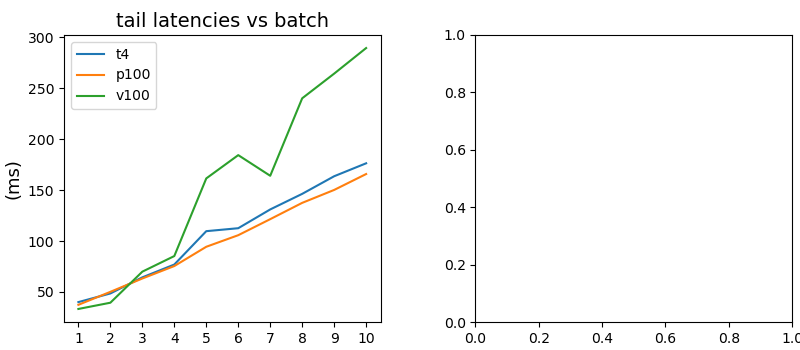
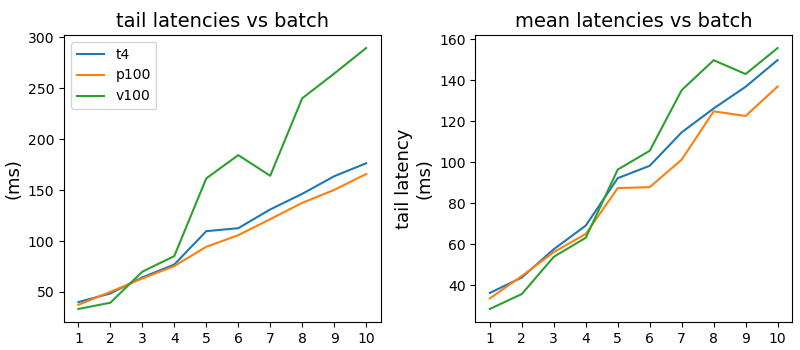
updates

diff --git a/experiments/lat_vs_batch.py b/experiments/lat_vs_batch.py
@@ -18,13 +18,16 @@ batches = list(range(1, 11))
 # first plot throughput across different gpus
 for i, gpu in enumerate(gpus):
     tail_list = []
+    mean_list = []
     for batch_size in batches:
         path = f'logs/time_records/{gpu}_{batch_size}.json'
         with open(path) as f:
             lats = json.load(f)
         lats = lats[5:]
         tail_list.append(np.percentile(lats,95))
+        mean_list.append(np.mean(lats))
     axs[0].plot(batches, tail_list, label=gpu)
+    axs[1].plot(batches, mean_list, label=gpu)
 
 axs[0].set_xticks(batches)
 axs[0].legend()
@@ -32,31 +35,10 @@ axs[0].set_title('tail latencies vs batch', fontsize=14)
 axs[0].set_ylabel('tail latency\n(ms)', fontsize=13)
 axs[0].set_xlabel('batch size', fontsize=13)
 
-#axs[1].bar(x, qps_list, width=width) #TODO
-#axs[1].set_xticks(x)
-#axs[1].set_xticklabels(GPUs)
-#axs[1].set_title('inference throughput', fontsize=14)
-#axs[1].set_ylabel('throughput\n(query-per-second)', fontsize=13)
-#
-column = ' power.draw [W]'
-for i, gpu in enumerate(gpus):
-    energy_list = []
-    path = f'logs/{gpu}.csv'
-    df = pandas.read_csv(path)
-    pwr = np.mean(df[column]) #- idle_pwr[i] #watt
-
-    for batch_size in batches:
-    time = lat_list[i]/1000 #second
-    energy_list.append(pwr*time)
-#
-#axs[2].bar(x, energy_list, width)
-#axs[2].set_xticks(x)
-#axs[2].set_xticklabels(GPUs)
-#axs[2].set_title('inference energy', fontsize=14)
-#axs[2].set_ylabel('Energy (Joule)\nper query', fontsize=13)
-#
-#for ax in axs:
-#    ax.grid(which='major', axis='y', ls='dotted')
+axs[1].set_xticks(batches)
+axs[1].set_title('mean latencies vs batch', fontsize=14)
+axs[1].set_ylabel('tail latency\n(ms)', fontsize=13)
+axs[1].set_xlabel('batch size', fontsize=13)
 
 plt.savefig(f'plots/lat_vs_batch.png')
 

diff --git a/experiments/process.py b/experiments/process.py
@@ -8,8 +8,8 @@ import pandas
 import sys
 
 batch_size = sys.argv[1]
-gpus = ['cpu', 't4', 'p100', 'v100'] # cpu node is c0191
-GPUs = ['CPU', 'T4', 'P100', 'V100']
+gpus = ['t4', 'p100', 'v100'] # cpu node is c0191
+GPUs = ['T4', 'P100', 'V100']
 #idle_pwr = [27, 60, 15]
 
 fig, axs = plt.subplots(1, 3, figsize=(12,3.5), gridspec_kw={'hspace': 0, 'wspace': 0.3, 'top': 0.9, 'left':0.08, 'right':0.99, 'bottom':0.08})
@@ -35,10 +35,10 @@ for i, gpu in enumerate(gpus):
     qps = 1000 / lat_mean
     qps_list.append(qps)
 
-axs[0].bar(x, tail_list, width=width) #TODO
+axs[0].bar(x, lat_list, width=width) #TODO
 axs[0].set_xticks(x)
 axs[0].set_xticklabels(GPUs)
-axs[0].set_title('inference tail latency', fontsize=14)
+axs[0].set_title('inference mean latency', fontsize=14)
 axs[0].set_ylabel('tail latency\n(ms)', fontsize=13)
 
 axs[1].bar(x, qps_list, width=width) #TODO
